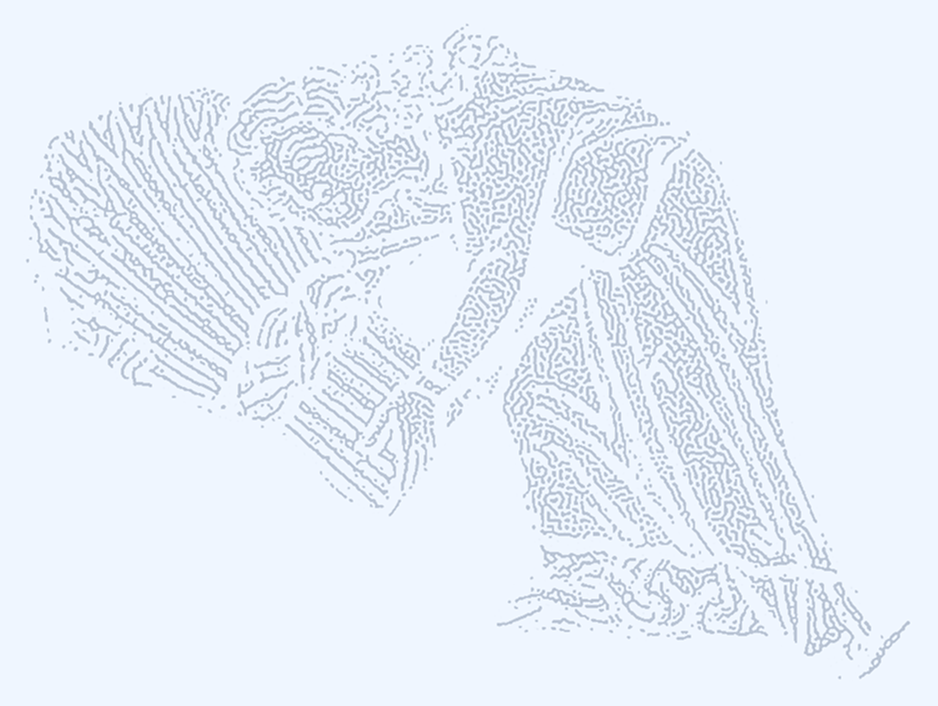
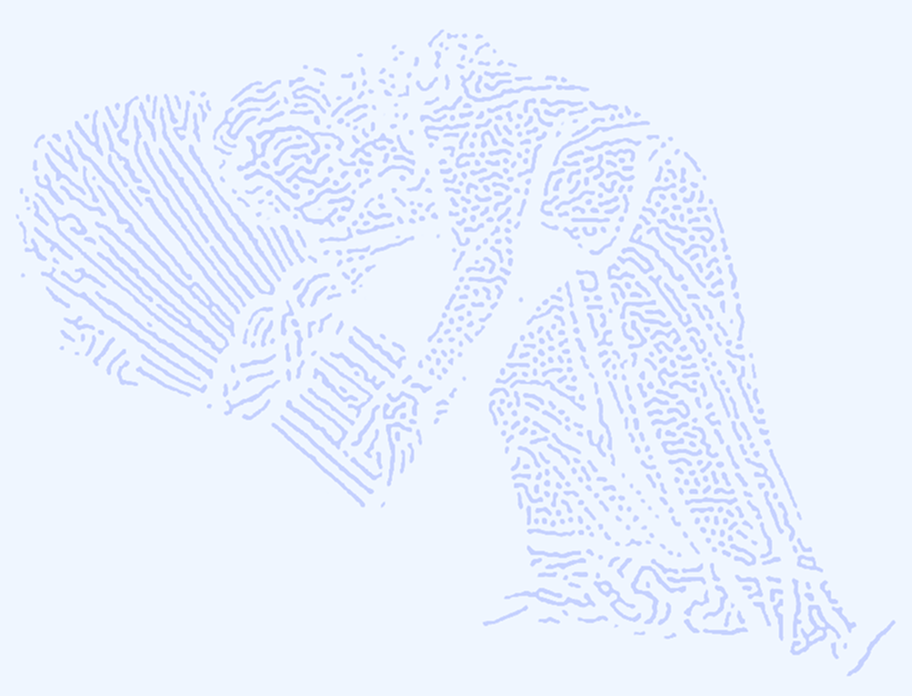
img

Changed region(s): [[0.0307, 0.0302, 0.9825, 0.9655]]

diff --git a/src/App.jsx b/src/App.jsx
@@ -37,7 +37,7 @@ function App() {
       <Intro />
       {/* <MapTab data={data} />*/}
       <div className={"container mx-auto px-4 sm:px-0 py-20 items-center justify-center space-y-2"}>
-        <img src="img-2.png" className="w-90 h-auto max-w-full mx-auto" />
+        <img src="img-2.png" className="w-70 h-auto max-w-full mx-auto" />
         <p className={"font-serif text-2xl text-slate-600 text-balance text-center"}>Presto pubblicheremo i dati che abbiamo raccolto</p>
         <p className={"text-sans text-base text-slate-600 text-balance text-center"}>Seguici su @n.i.n.a_watch per ricevere aggiornamenti e informazioni aggiuntive.</p></div>
       <Footer />